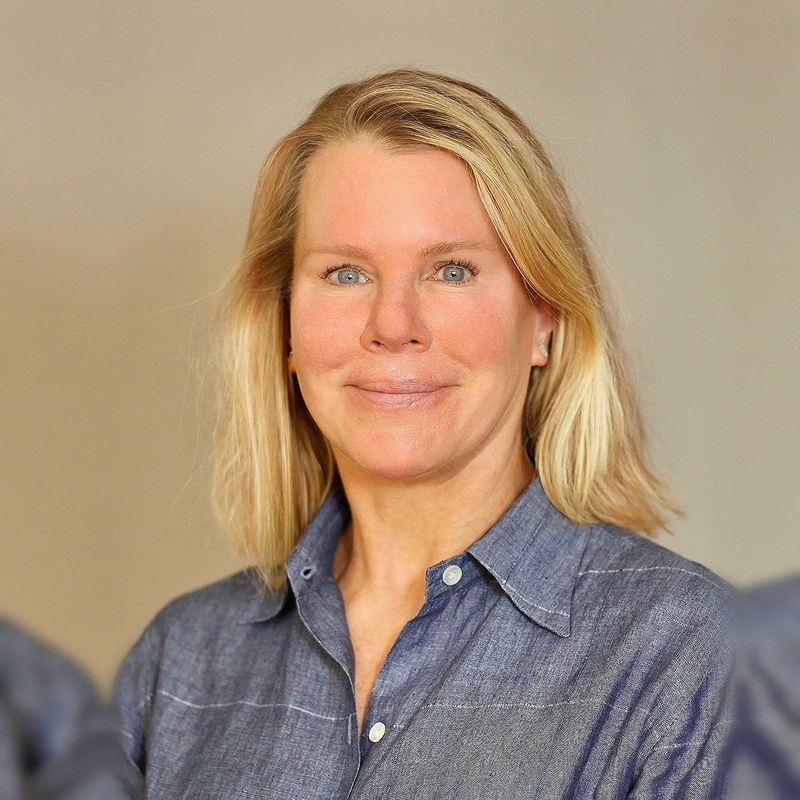
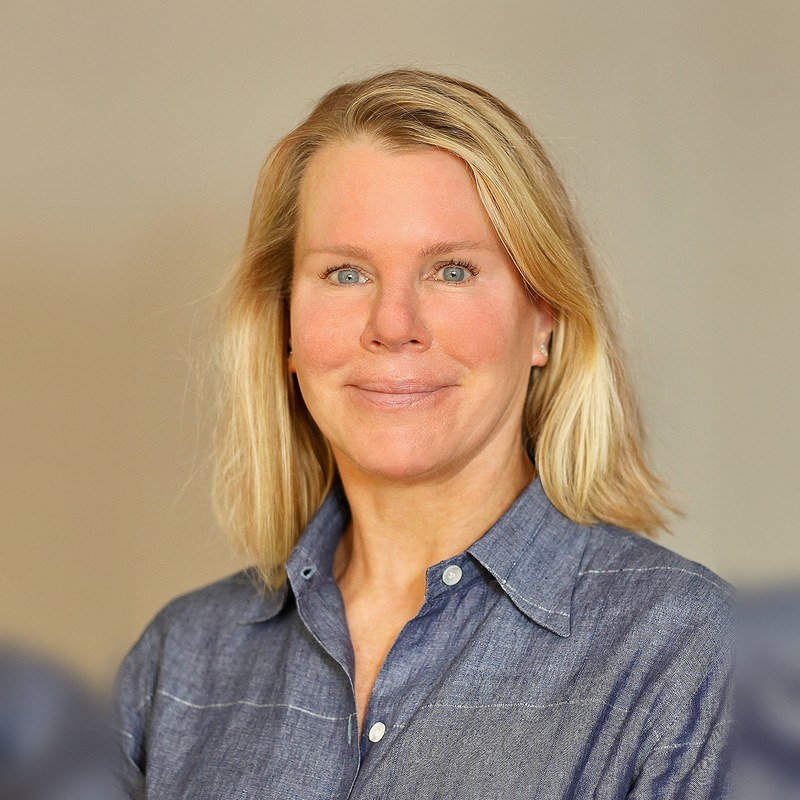
Melissa's Aug 7 round-2 notes: circles, ALCA swap, spacing, copy fixes
- Team photos now circular with slight zoom (Clay's suggestion): edge
  extensions fall outside the mask; artifacts no longer visible
- Extended headshots also regenerated with stronger defocus underneath
- ALCA 'Experts in Aging Well' logo replaces the Member version (from
  the local Logos folder, high res)
- Values band: five values grouped tightly instead of spread full-width
- Aging Life Care intro fragment completed into one sentence
- CDP written out as Certified Dementia Practitioner on team tiles

diff --git a/team.html b/team.html
@@ -18,7 +18,7 @@
   <meta property="og:image" content="https://clayborneo.github.io/cwg-site-draft/assets/img/hero/slide1.jpg">
   <meta name="twitter:card" content="summary_large_image">
   <link rel="icon" type="image/svg+xml" href="assets/svg/badge.svg">
-  <link rel="stylesheet" href="assets/css/style.css?v=17">
+  <link rel="stylesheet" href="assets/css/style.css?v=19">
 </head>
 <body>
 
@@ -106,7 +106,7 @@
 
       <div class="team-card" data-name="Jennifer Dooley" data-title="Care Manager &amp; Certified Dementia Practitioner" data-creds="BA, CDP, CM" data-photo="assets/img/team/jennifer-dooley.jpg">
         <div class="team-photo placeholder"><svg viewBox="0 0 24 24" fill="currentColor"><path d="M12 12c2.7 0 5-2.3 5-5s-2.3-5-5-5-5 2.3-5 5 2.3 5 5 5zm0 2c-3.3 0-10 1.7-10 5v3h20v-3c0-3.3-6.7-5-10-5z"/></svg></div>
-        <div class="team-info"><h4>Jennifer Dooley</h4><div class="team-title">Care Manager &amp; CDP</div></div>
+        <div class="team-info"><h4>Jennifer Dooley</h4><div class="team-title">Care Manager &amp; Certified Dementia Practitioner</div></div>
         <div class="bio-text" hidden>
           <p>Jennifer earned a BA in nursing from the College of St. Scholastica in Duluth, Minnesota. Upon graduation, she was commissioned into the United States Air Force and served 10 years as an Air Force Nurse. She worked in multiple clinical settings in Texas, Germany and Idaho. Jennifer served as the charge nurse of a large multidisciplinary outpatient clinic, managing over 6,000 patients a month. After leaving the Air Force, she worked as the embassy nurse at US Embassy Brazil. Jennifer is a detailed person and is passionate about nutrition and wellness. She volunteers her time at the Tarrant County Medical Reserve Corps. Jennifer is a Certified Dementia Practitioner, a member of the Aging Life Care Association® and Tarrant Area Gerontological Society.</p>
         </div>
@@ -122,7 +122,7 @@
 
       <div class="team-card" data-name="Jennifer Eakins" data-title="Care Manager &amp; Certified Dementia Practitioner" data-creds="BA, CDP, CM" data-photo="assets/img/team/jennifer-eakins.jpg">
         <div class="team-photo placeholder"><svg viewBox="0 0 24 24" fill="currentColor"><path d="M12 12c2.7 0 5-2.3 5-5s-2.3-5-5-5-5 2.3-5 5 2.3 5 5 5zm0 2c-3.3 0-10 1.7-10 5v3h20v-3c0-3.3-6.7-5-10-5z"/></svg></div>
-        <div class="team-info"><h4>Jennifer Eakins</h4><div class="team-title">Care Manager &amp; CDP</div></div>
+        <div class="team-info"><h4>Jennifer Eakins</h4><div class="team-title">Care Manager &amp; Certified Dementia Practitioner</div></div>
         <div class="bio-text" hidden>
           <p>Jennifer Eakins has more than 20 years of experience in the healthcare industry, which included working directly with Kenneth H. Cooper M.D., the father of "aerobics" and founder of the renowned Cooper Aerobics Center in Dallas, Texas. This experience allowed Jennifer to use her passion for helping others. She advocated for patient's health and wellness by assisting them with preventive and primary care medicine, supervised exercise physiologists, and communicated with physicians and other professionals involved in patient care. Jennifer has brought those skills to her career as an Aging Life Care Manager® dedicated to advocating, teaching, and supporting her clients and their families as they navigate the journey of aging well. Along with her Bachelor of Arts in Exercise Physiology from the University of Texas at Arlington, she is a Certified Dementia Practitioner, an associate member of the Aging Life Care Association® and a Dallas Area Gerontological Society member.</p>
         </div>
@@ -138,7 +138,7 @@
 
       <div class="team-card" data-name="Stephanie Linder" data-title="Care Manager &amp; Certified Dementia Practitioner" data-creds="BA, MS, CCC/SLP, CM, CDP" data-photo="assets/img/team/stephanie.jpg">
         <div class="team-photo placeholder"><svg viewBox="0 0 24 24" fill="currentColor"><path d="M12 12c2.7 0 5-2.3 5-5s-2.3-5-5-5-5 2.3-5 5 2.3 5 5 5zm0 2c-3.3 0-10 1.7-10 5v3h20v-3c0-3.3-6.7-5-10-5z"/></svg></div>
-        <div class="team-info"><h4>Stephanie Linder</h4><div class="team-title">Care Manager &amp; CDP</div></div>
+        <div class="team-info"><h4>Stephanie Linder</h4><div class="team-title">Care Manager &amp; Certified Dementia Practitioner</div></div>
         <div class="bio-text" hidden>
           <p>Stephanie earned a Masters degree in Speech-Language Pathology and Audiology along with a Bachelors degree in Communication Arts and Sciences from Baylor University. She has over 25 years of experience treating all ages from young children to the aging. Stephanie has worked the majority of her career in long term care facilities in East Texas and most recently served as the Director of Rehabilitation at Buckner Baptist Village. Advocating for the elderly is Stephanie's passion and she puts her whole heart into her work supporting her client's needs as part of the Caring with Grace team. Stephanie is an affiliate partner of the Aging Life Care Association® and a Certified Dementia Practitioner.</p>
         </div>
@@ -162,7 +162,7 @@
 
       <div class="team-card" data-name="Susan Richards" data-title="Care Manager &amp; Certified Dementia Practitioner" data-creds="CDP, CM" data-photo="assets/img/team/susan.jpg">
         <div class="team-photo placeholder"><svg viewBox="0 0 24 24" fill="currentColor"><path d="M12 12c2.7 0 5-2.3 5-5s-2.3-5-5-5-5 2.3-5 5 2.3 5 5 5zm0 2c-3.3 0-10 1.7-10 5v3h20v-3c0-3.3-6.7-5-10-5z"/></svg></div>
-        <div class="team-info"><h4>Susan Richards</h4><div class="team-title">Care Manager &amp; CDP</div></div>
+        <div class="team-info"><h4>Susan Richards</h4><div class="team-title">Care Manager &amp; Certified Dementia Practitioner</div></div>
         <div class="bio-text" hidden>
           <p>Susan Richards brings over 17 years of healthcare experience to her role as Care Manager at Caring With Grace. Her background spans the full continuum of care, from pediatrics to geriatrics, with a deep commitment to promoting preventive health and patient advocacy.</p>
           <p>Before joining Caring With Grace, Susan was part of the renowned concierge program at Cooper Clinic, where she provided high-touch, personalized support to patients. She holds an Associate of Arts degree with a focus on Healthcare Administration and is a trained Medical Assistant, with hands-on experience in both clinical care and healthcare administration. Her versatility has allowed her to thrive in a variety of roles, from assisting physicians to coordinating care services and supporting families. Susan's professional experience in concierge medicine allows her to share professional expertise in customized service, create individual care plans that focus on her client's priorities and values, and be a supportive guide as they navigate aging, illness or disability. We are thrilled to have her on the Caring with Grace team!</p>
@@ -225,7 +225,7 @@
     <span class="section-eyebrow">Memberships &amp; Certifications</span>
     <p style="color: var(--text-light); max-width: 640px; margin: 0 auto 30px;">Our team maintains active memberships and credentials with the organizations that set the standards for our profession.</p>
     <div class="orgs-row">
-      <img src="assets/img/orgs/alca-member.png" alt="Aging Life Care Association Member" title="Aging Life Care Association">
+      <img src="assets/img/orgs/alca-experts.png" alt="Aging Life Care Association: The Experts in Aging Well" title="Aging Life Care Association" style="height: 74px;">
       <img src="assets/img/orgs/naccm.png" alt="NACCM Certified Care Manager" title="National Academy of Certified Care Managers">
       <img src="assets/img/orgs/nccdp.png" alt="NCCDP Certified Dementia Practitioner" title="Certified Dementia Practitioner">
       <img src="assets/img/orgs/dags.png" alt="Dallas Area Gerontological Society" title="Dallas Area Gerontological Society">

diff --git a/aging-life-care.html b/aging-life-care.html
@@ -18,7 +18,7 @@
   <meta property="og:image" content="https://clayborneo.github.io/cwg-site-draft/assets/img/hero/slide1.jpg">
   <meta name="twitter:card" content="summary_large_image">
   <link rel="icon" type="image/svg+xml" href="assets/svg/badge.svg">
-  <link rel="stylesheet" href="assets/css/style.css?v=17">
+  <link rel="stylesheet" href="assets/css/style.css?v=19">
 </head>
 <body>
 
@@ -47,7 +47,7 @@
 <div class="page-intro">
   <span class="section-eyebrow">Aging Life Care Professional®</span>
   <h1>What is an Aging Life Care Manager?</h1>
-  <p>A caregiver provides direct care. A care manager makes sure you have the right care from the right people, at the right time. Coordinating, advocating for and guiding you along your journey.</p>
+  <p>A caregiver provides direct care. A care manager makes sure you have the right care from the right people, at the right time, coordinating, advocating for, and guiding you along your journey.</p>
 </div>
 
 <section class="framing" style="padding-top: 60px;">

diff --git a/assets/css/style.css b/assets/css/style.css
@@ -653,10 +653,13 @@ section { padding: var(--section-pad) 32px; }
 }
 .values-list {
   list-style: none;
-  display: grid;
-  grid-template-columns: repeat(5, 1fr);
-  gap: 24px;
+  display: flex;
+  justify-content: center;
+  gap: 18px 44px;
+  flex-wrap: wrap;
   text-align: center;
+  max-width: 880px;
+  margin: 0 auto;
 }
 .values-list li {
   font-family: var(--heading-font);
@@ -737,11 +740,15 @@ section { padding: var(--section-pad) 32px; }
 }
 .team-card:hover { box-shadow: 0 4px 14px rgba(0,0,0,0.08); }
 .team-photo {
+  width: 70%;
   aspect-ratio: 1;
+  border-radius: 50%;
+  margin: 24px auto 0;
   background: var(--light);
-  background-size: cover;
-  background-position: center;
+  background-size: 116%;
+  background-position: center 32%;
   position: relative;
+  border: 3px solid var(--primary-light);
 }
 .team-photo.placeholder {
   display: flex;

diff --git a/404.html b/404.html
@@ -9,7 +9,7 @@
   <link href="https://fonts.googleapis.com/css2?family=DM+Serif+Display:ital@0;1&family=Alex+Brush&family=DM+Sans:ital,wght@0,400;0,500;0,600;0,700;1,400&display=swap" rel="stylesheet">
     <meta name="robots" content="noindex">  <!-- draft only: remove at launch -->
                 <link rel="icon" type="image/svg+xml" href="assets/svg/badge.svg">
-  <link rel="stylesheet" href="assets/css/style.css?v=17">
+  <link rel="stylesheet" href="assets/css/style.css?v=19">
 </head>
 <body>
 

diff --git a/about.html b/about.html
@@ -18,7 +18,7 @@
   <meta property="og:image" content="https://clayborneo.github.io/cwg-site-draft/assets/img/hero/slide1.jpg">
   <meta name="twitter:card" content="summary_large_image">
   <link rel="icon" type="image/svg+xml" href="assets/svg/badge.svg">
-  <link rel="stylesheet" href="assets/css/style.css?v=17">
+  <link rel="stylesheet" href="assets/css/style.css?v=19">
 </head>
 <body>
 

diff --git a/caring-on-call.html b/caring-on-call.html
@@ -18,7 +18,7 @@
   <meta property="og:image" content="https://clayborneo.github.io/cwg-site-draft/assets/img/hero/slide1.jpg">
   <meta name="twitter:card" content="summary_large_image">
   <link rel="icon" type="image/svg+xml" href="assets/svg/badge.svg">
-  <link rel="stylesheet" href="assets/css/style.css?v=17">
+  <link rel="stylesheet" href="assets/css/style.css?v=19">
 </head>
 <body>
 

diff --git a/contact.html b/contact.html
@@ -18,7 +18,7 @@
   <meta property="og:image" content="https://clayborneo.github.io/cwg-site-draft/assets/img/hero/slide1.jpg">
   <meta name="twitter:card" content="summary_large_image">
   <link rel="icon" type="image/svg+xml" href="assets/svg/badge.svg">
-  <link rel="stylesheet" href="assets/css/style.css?v=17">
+  <link rel="stylesheet" href="assets/css/style.css?v=19">
 </head>
 <body>
 

diff --git a/index.html b/index.html
@@ -18,7 +18,7 @@
   <meta property="og:image" content="https://clayborneo.github.io/cwg-site-draft/assets/img/hero/slide1.jpg">
   <meta name="twitter:card" content="summary_large_image">
   <link rel="icon" type="image/svg+xml" href="assets/svg/badge.svg">
-  <link rel="stylesheet" href="assets/css/style.css?v=17">
+  <link rel="stylesheet" href="assets/css/style.css?v=19">
 </head>
 <body>
 

diff --git a/resources.html b/resources.html
@@ -18,7 +18,7 @@
   <meta property="og:image" content="https://clayborneo.github.io/cwg-site-draft/assets/img/hero/slide1.jpg">
   <meta name="twitter:card" content="summary_large_image">
   <link rel="icon" type="image/svg+xml" href="assets/svg/badge.svg">
-  <link rel="stylesheet" href="assets/css/style.css?v=17">
+  <link rel="stylesheet" href="assets/css/style.css?v=19">
 </head>
 <body>
 
